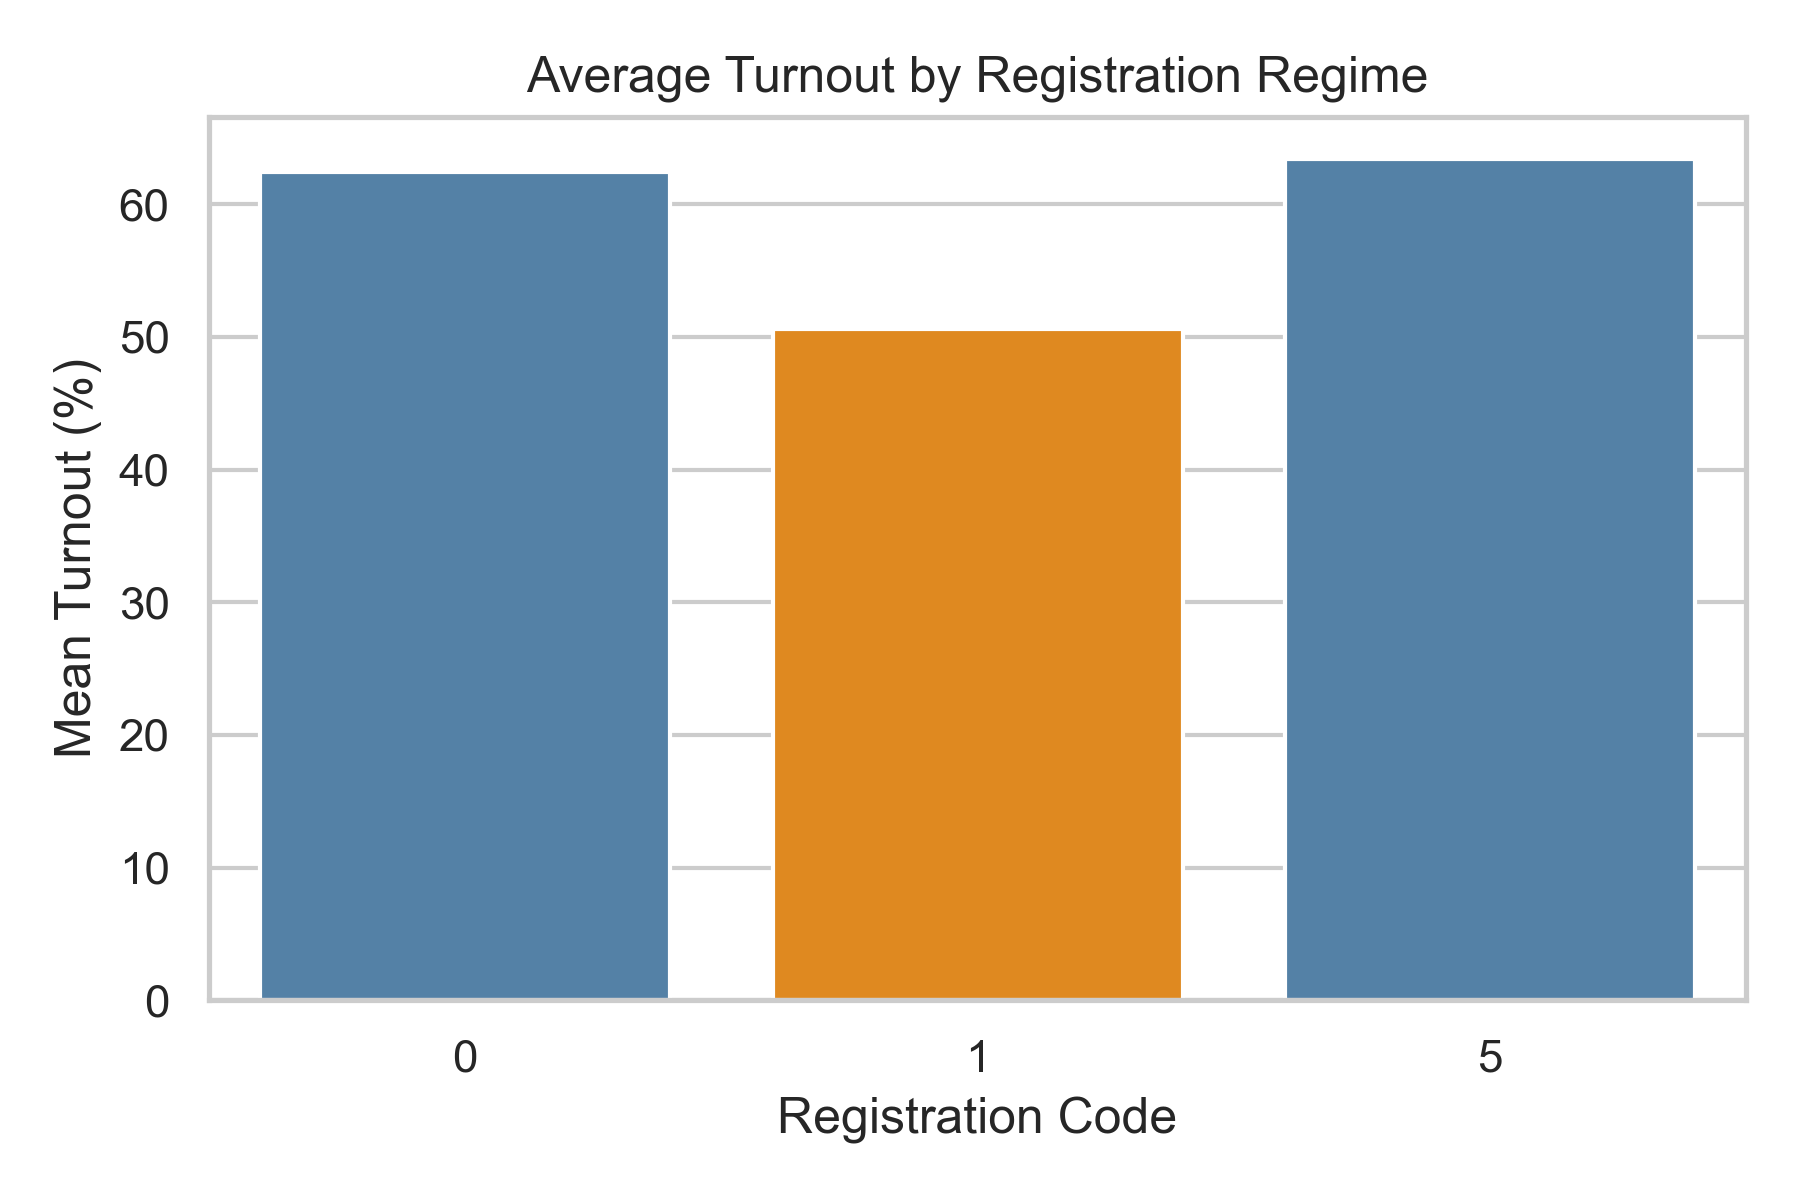
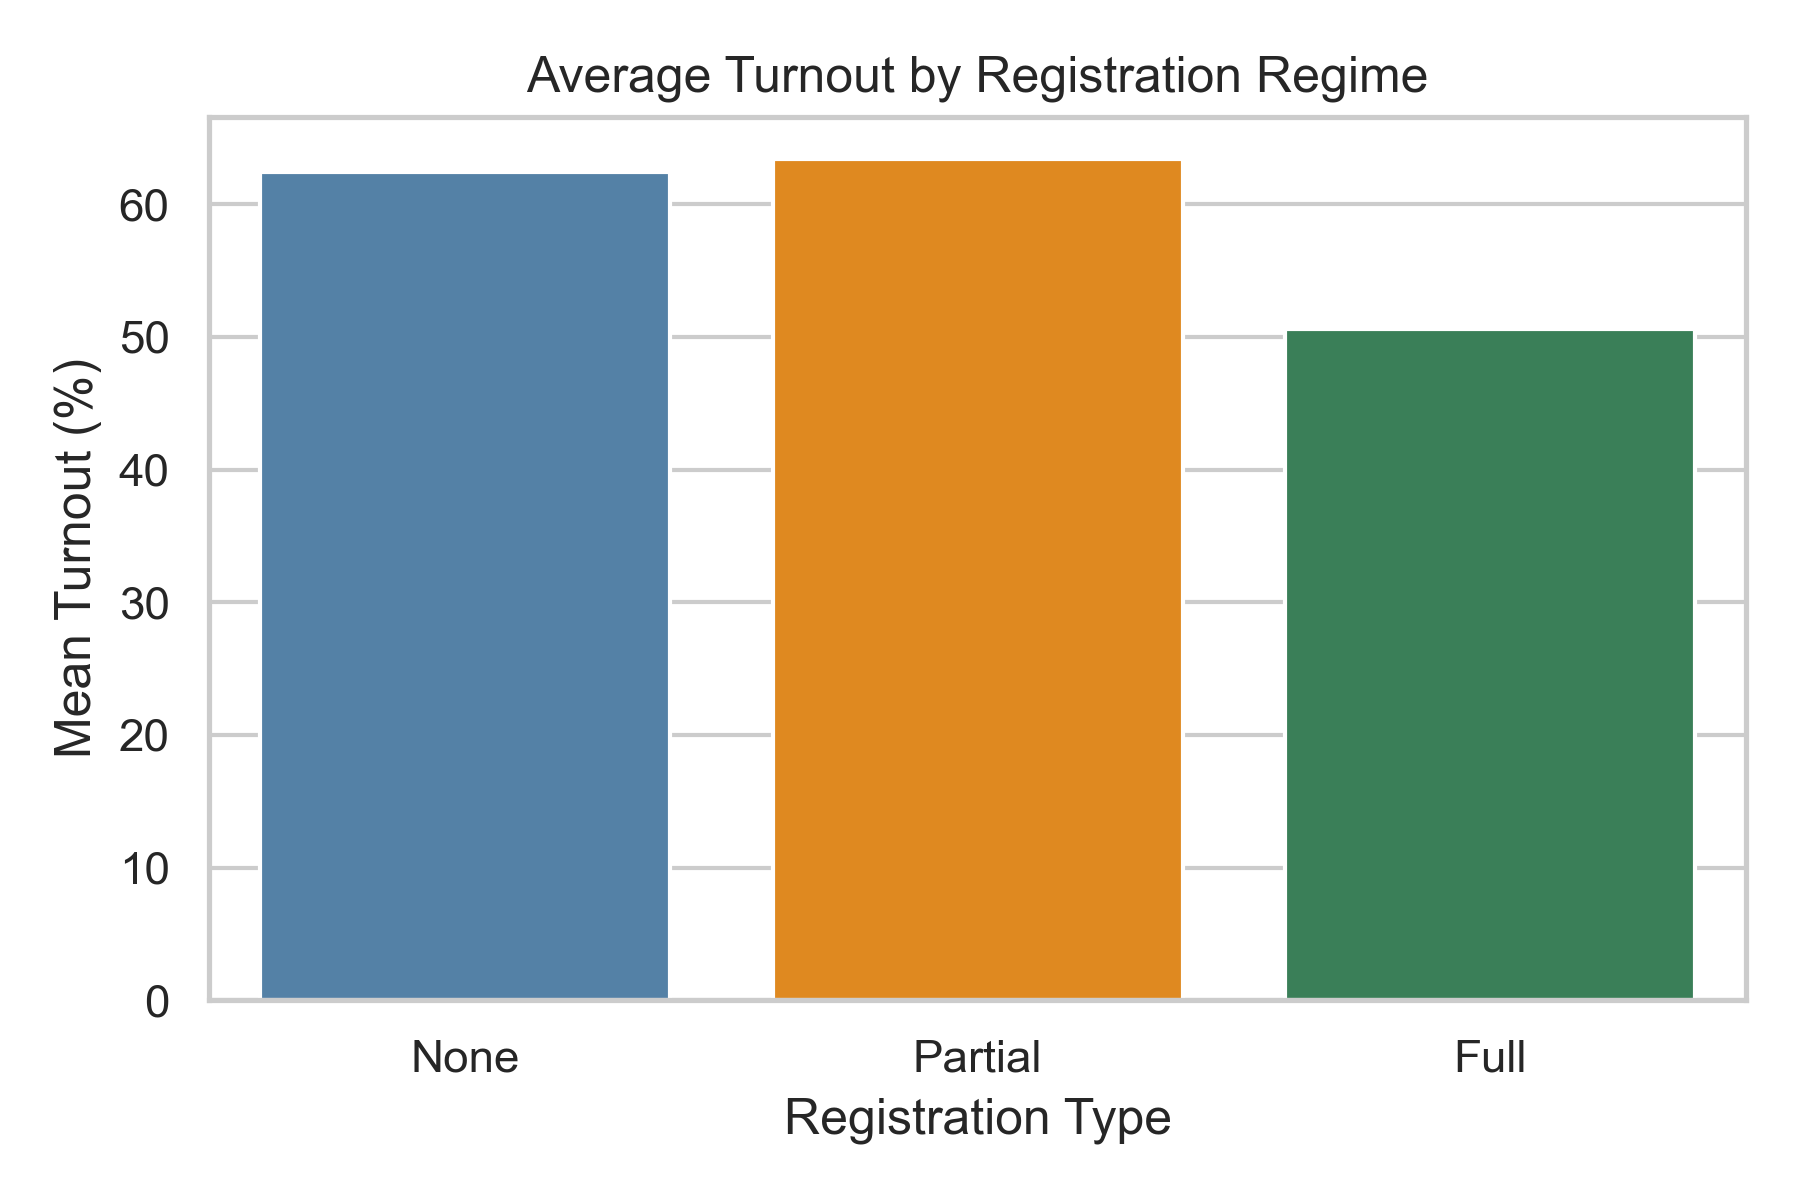
m

diff --git a/problemset2.py b/problemset2.py
@@ -146,24 +146,30 @@ plt.tight_layout()
 plt.savefig("outputs/distributions.png", dpi=300)
 plt.show()
 plt.close()
-
+ 
 # Registration
+# Recode registration variable for plotting
+df["registration_label"] = df["registration"].map({
+    0: "None",
+    1: "Full",
+    5: "Partial"
+})
+
 plt.figure(figsize=(6,4))
 
-reg_means = df.groupby("registration")["turnout_pct"].mean().reset_index()
+reg_means = df.groupby("registration_label")["turnout_pct"].mean().reset_index()
 
 sns.barplot(
-    x="registration",
+    x="registration_label",
     y="turnout_pct",
-    hue="registration",
     data=reg_means,
-    palette=["steelblue", "darkorange"],
-    legend=False
+    order=["None", "Partial", "Full"],  # optional: control order
+    palette=["steelblue", "darkorange", "seagreen"]
 )
 
 plt.title("Average Turnout by Registration Regime")
 plt.ylabel("Mean Turnout (%)")
-plt.xlabel("Registration Code")
+plt.xlabel("Registration Type")
 
 plt.tight_layout()
 plt.savefig("outputs/turnout_by_registration_bar.png", dpi=300)
@@ -243,7 +249,7 @@ plt.savefig("outputs/state_turnout.png", dpi=300)
 plt.show()
 plt.close()
 
-# Convert turnout to percent (optional but fine for interpretation)
+# Convert turnout to percent 
 df["turnout_pct"] = df["turnout"] * 100
 
 # Exclude registration == 5
